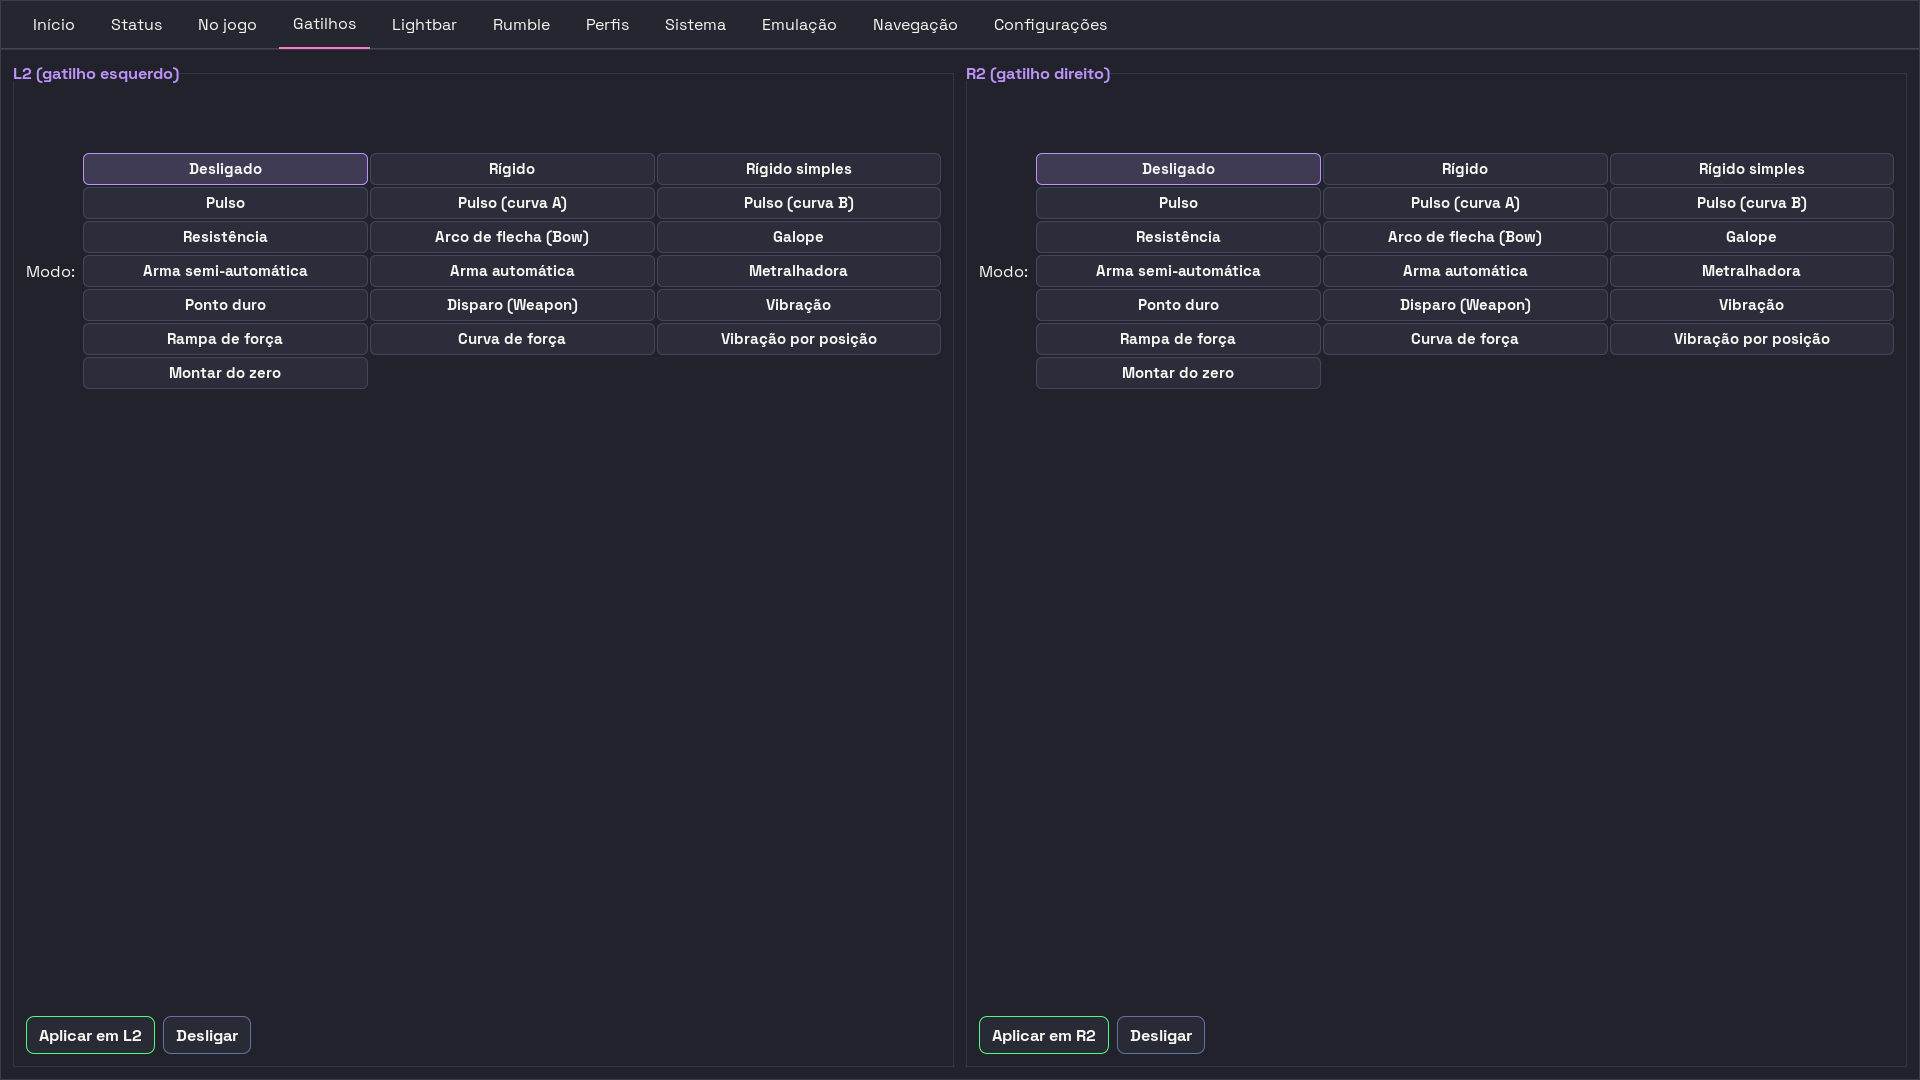
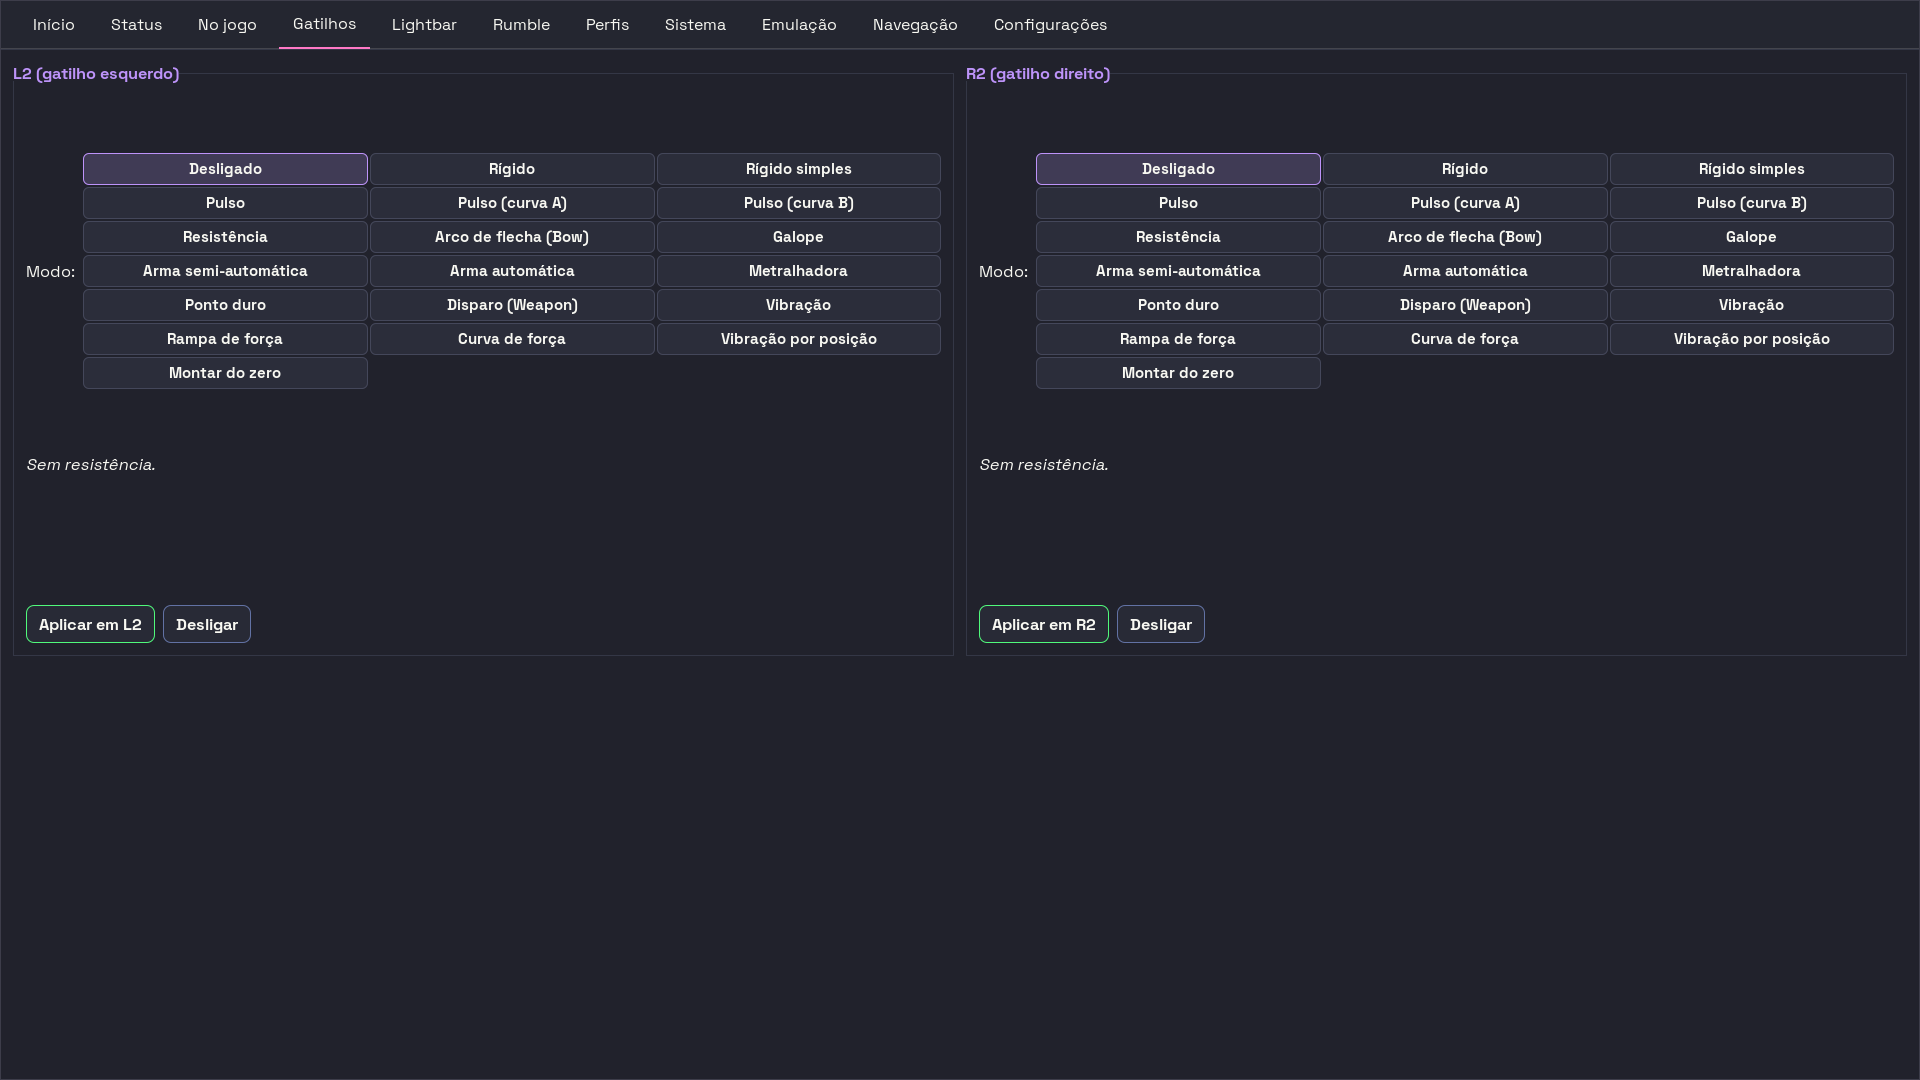
fix(interface): a VAO-01 fecha — e o vazio dos Gatilhos era do INSTRUMENTO
Decisão 1 do `DECISOES.md`, a única sem marca. Ela não respondeu porque a dúvida
era real: o cético tinha contestado que *"o vazio dos Gatilhos não sumiu, mudou
de lado"*, e a foto lhe dava razão — a moldura ia até o pé da página com ~640px
de nada entre a grade de modos e o "Aplicar em L2".

**O cético estava certo sobre o sintoma e errado sobre a causa.** São duas
coisas, e as duas foram medidas:

**1. A moldura esticava mesmo, e a cura tem DUAS metades.** A E9 da LARGURA-01
pôs a fileira de ação no pé com `valign=end` + `vexpand=True`, a pedido literal
dela — e isso moveu o vazio em vez de tirá-lo. O próprio comentário da E9 já
registrava isso como não resolvido.

`vexpand=False` no frame **não bastou**: medido, ainda saía 1016px de 1040. A
razão é que o pai é um Box HORIZONTAL — nele o `expand` do packing distribui
LARGURA, e a altura o filho recebe inteira por preenchimento, sem passar por
`vexpand` nenhum. `valign=start` é a metade que faltava. Com as duas, a moldura
passa a ter a altura do conteúdo, e o `valign=end` da fileira continua valendo:
os botões ficam no pé de uma coluna CURTA, que é o que ela pediu.

**2. E a foto mentia.** O `retratar_abas.py` montava os 19 modos À MÃO — um
`SegmentedSelector(wrap=True)` criado ali e empacotado com
`pack_start(sel, True, True, 0)`. Aquele `expand=True` **não existe no produto**.
Medido: montagem à mão 1016px, método de produção 482px.

A ironia estava escrita no próprio arquivo. O docstring da função dizia, sobre
[…]

diff --git a/tests/unit/test_a_foto_monta_como_o_produto_monta.py b/tests/unit/test_a_foto_monta_como_o_produto_monta.py
@@ -1,0 +1,159 @@
+"""O retrato das abas usa o MÉTODO DE PRODUÇÃO, nunca uma cópia dele.
+
+O DEFEITO, medido em 22/08/2026, e ele custou uma decisão dela.
+
+O `retratar_abas.py` montava os 19 modos da aba Gatilhos À MÃO — um
+`SegmentedSelector(wrap=True)` criado ali mesmo e empacotado com
+`slot.pack_start(sel, True, True, 0)`. O `expand=True` daquele `pack_start`
+**não existe no produto**, e por causa dele a moldura saía esticada até o pé da
+página: 1016px de 1040, com uns 640px de vazio entre a grade e o "Aplicar em L2".
+
+Ela decidiu a fila de interface OLHANDO ESSA FOTO. A dúvida da decisão 1 do
+`DECISOES.md` — *"o vazio dos Gatilhos não sumiu, mudou de lado"* — nasceu de um
+vazio que era do INSTRUMENTO, não do produto. Com o método de produção a mesma
+moldura mede 482px.
+
+E a ironia estava escrita no próprio arquivo: o docstring da função dizia, sobre
+os RÓTULOS, que *"uma lista copiada aqui viraria um segundo dono, e a foto
+passaria a mentir no dia em que um deles mudasse"*. A regra estava certa e foi
+aplicada só à metade — os rótulos vinham da fonte única, o LAYOUT era cópia.
+
+É a família que esta casa mais paga: **o instrumento mente mais que o produto**.
+Três medições falsas num único dia em 07/08, e esta é a quarta.
+
+O QUE ESTE PORTÃO COBRA: toda aba que o retrato monta em código chama o método
+de produção. A régua é a IMPORTAÇÃO do mixin — não o texto do docstring, que é
+justamente o que estava certo enquanto o código estava errado.
+"""
+from __future__ import annotations
+
+import ast
+import inspect
+from pathlib import Path
+
+_RETRATO = (
+    Path(__file__).resolve().parents[2] / "scripts" / "gui-captura" / "retratar_abas.py"
+)
+
+#: Os mixins que montam aba em código, e que o retrato TEM de chamar em vez de
+#: reimplementar. Cada entrada é `(módulo do produto, o que a foto perderia)`.
+#:
+#: A lista cresce quando uma aba nova passa a ser montada em código. Ela NÃO é a
+#: régua sozinha — o teste também cobra que ninguém construa widget de aba à mão
+#: (ver `test_o_retrato_nao_monta_widget_de_aba_a_mao`), que é o que pega a aba
+#: que ainda não está aqui.
+MIXINS_DE_ABA: dict[str, str] = {
+    "TriggersActionsMixin": "os 19 modos de gatilho e a área de parâmetros",
+    "ProfilesActionsMixin": 'o "Aplica a", o "Modo" e a lista do Steam Input',
+    "ConfigActionsMixin": "as cinco seções da aba Configurações",
+}
+
+
+def _arvore() -> ast.Module:
+    return ast.parse(_RETRATO.read_text(encoding="utf-8"))
+
+
+def _nomes_usados() -> set[str]:
+    """Todo nome que o retrato CITA — importado direto ou por atributo.
+
+    As DUAS formas contam, e a segunda não é detalhe: o retrato importa a aba
+    Perfis como `profiles_actions as _pa` e usa `_pa.ProfilesActionsMixin`.
+    A primeira versão desta régua só olhava o import direto e reprovou uma aba
+    que estava CERTA — portão que acusa quem fez a coisa certa ensina a próxima
+    pessoa a desligá-lo, e esta casa já pagou por isso em 13/08.
+    """
+    nomes: set[str] = set()
+    for no in ast.walk(_arvore()):
+        if isinstance(no, ast.ImportFrom):
+            nomes.update(a.asname or a.name for a in no.names)
+        elif isinstance(no, ast.Import):
+            nomes.update((a.asname or a.name).split(".")[0] for a in no.names)
+        elif isinstance(no, ast.Attribute):
+            nomes.add(no.attr)
+    return nomes
+
+
+def test_o_retrato_chama_o_mixin_de_cada_aba_montada_em_codigo() -> None:
+    """Mordida: trocar a chamada de `install_triggers_tab` por uma montagem à mão."""
+    citados = _nomes_usados()
+    faltando = {
+        mixin: perda
+        for mixin, perda in MIXINS_DE_ABA.items()
+        if mixin not in citados
+    }
+    assert not faltando, (
+        "o retrato deixou de usar o método de produção destas abas: "
+        + "; ".join(f"{m} (a foto perde {p})" for m, p in faltando.items())
+        + ". Montar à mão faz a foto mentir sobre o layout, e é olhando a foto "
+        "que ela decide."
+    )
+
+
+def test_o_retrato_nao_monta_widget_de_aba_a_mao() -> None:
+    """A régua que pega a aba que ainda não está em `MIXINS_DE_ABA`.
+
+    Construir um `SegmentedSelector` no retrato é o sintoma: ele é o widget que
+    as abas usam para os seus seletores, e o produto sempre o cria dentro de um
+    mixin. Uma construção aqui é uma segunda montagem por definição.
+
+    **A BANCADA DE MENTIRA CONTINUA PERMITIDA, e a diferença é o que separa
+    este portão de um estorvo:** injetar DADO (controles de mentira, uma mesa de
+    rádio inventada, jogos que não existem) é o trabalho deste script e é o que
+    protege a privacidade dela. O que ele não pode é injetar LAYOUT.
+
+    Mordida: acrescentar um `SegmentedSelector(...)` a qualquer função do
+    retrato.
+    """
+    construcoes: list[str] = []
+    for no in ast.walk(_arvore()):
+        if not isinstance(no, ast.Call):
+            continue
+        alvo = no.func
+        nome = (
+            alvo.id
+            if isinstance(alvo, ast.Name)
+            else alvo.attr
+            if isinstance(alvo, ast.Attribute)
+            else None
+        )
+        if nome == "SegmentedSelector":
+            construcoes.append(f"linha {no.lineno}")
+
+    assert not construcoes, (
+        "o retrato voltou a construir widget de aba à mão "
+        f"({', '.join(construcoes)}). O layout tem de vir do mixin de produção; "
+        "só DADO pode ser injetado aqui."
+    )
+
+
+def test_a_regua_deste_portao_nao_confere_a_si_mesma() -> None:
+    """A trava contra o defeito que este arquivo existe para pegar.
+
+    Um portão que lê o próprio docstring do alvo, ou que itera a mesma lista que
+    deveria conferir, passa com a cura arrancada. Aconteceu TRÊS vezes nesta casa
+    em 22/08/2026.
+
+    Aqui a régua é a árvore de sintaxe do retrato, e a lista `MIXINS_DE_ABA` é
+    conferida contra o PRODUTO: cada mixin nomeado tem de existir de verdade em
+    `app/actions/`, senão a lista poderia ser preenchida com nomes inventados e
+    o primeiro teste passaria por acidente.
+    """
+    from hefesto_dualsense4unix.app.actions import (
+        profiles_actions,
+        triggers_actions,
+    )
+    from hefesto_dualsense4unix.app.actions import config as config_pkg
+
+    vivos = set()
+    for modulo in (triggers_actions, profiles_actions, config_pkg):
+        vivos.update(
+            nome
+            for nome, obj in vars(modulo).items()
+            if inspect.isclass(obj) and nome.endswith("Mixin")
+        )
+
+    fantasmas = set(MIXINS_DE_ABA) - vivos
+    assert not fantasmas, (
+        f"a lista deste portão nomeia mixin que não existe no produto: "
+        f"{sorted(fantasmas)}. Régua que aponta para o vazio aprova qualquer coisa."
+    )

diff --git a/scripts/gui-captura/retratar_abas.py b/scripts/gui-captura/retratar_abas.py
@@ -1149,28 +1149,47 @@ def _injetar_modos_de_gatilho(builder) -> str:  # type: ignore[no-untyped-def]
     produto usa. Uma lista copiada aqui viraria um segundo dono dos rótulos, e
     a foto passaria a mentir no dia em que um deles mudasse.
     """
+    # O MÉTODO DE PRODUÇÃO, e não uma cópia dele. SUBSTITUÍDO em 22/08/2026,
+    # e a razão é medida: esta função montava os modos À MÃO
+    # (`SegmentedSelector(wrap=True)` mais `slot.pack_start(sel, True, True, 0)`)
+    # em vez de chamar `install_triggers_tab`. Era um SEGUNDO DONO da montagem —
+    # exatamente o que o docstring acima diz que não se deve fazer com os
+    # rótulos, cometido com o LAYOUT.
+    #
+    # O preço, medido no mesmo dia: o `expand=True` daquele `pack_start` não
+    # existe no produto, e por causa dele a foto saía com a moldura esticada até
+    # o pé da página. Ela decidiu a fila de interface OLHANDO ESTA FOTO — a
+    # dúvida da decisão 1 do `DECISOES.md` ("o vazio dos Gatilhos não sumiu,
+    # mudou de lado") nasceu de um vazio que era do INSTRUMENTO. Com o método de
+    # produção a moldura mede 482px de 1040; com a montagem à mão, 1016.
+    #
+    # Mesmo desenho da aba Perfis e do card do Status logo abaixo: host mínimo
+    # com `_get`, nada de IPC, nada de tique.
     try:
-        from hefesto_dualsense4unix.app.actions.trigger_specs import PRESETS
-        from hefesto_dualsense4unix.app.widgets import SegmentedSelector
+        from hefesto_dualsense4unix.app.actions.triggers_actions import (
+            TriggersActionsMixin,
+        )
     except Exception as exc:
         return f"modos de gatilho não injetados ({exc})"
 
-    itens = [(spec.name, spec.label) for spec in PRESETS]
-    postos = 0
-    for lado in ("left", "right"):
-        slot = builder.get_object(f"trigger_{lado}_mode_slot")
-        if slot is None:
-            continue
-        sel = SegmentedSelector(wrap=True)
-        sel.set_items(itens)
-        # O primeiro é o "Desligado", e é o que a aba mostra ao abrir.
-        sel.set_active_id(itens[0][0])
-        slot.pack_start(sel, True, True, 0)
-        sel.show_all()
-        postos += 1
-    if not postos:
-        return "modos de gatilho não injetados (slots ausentes no glade)"
-    return f"{len(itens)} modos de gatilho injetados nos {postos} lados"
+    class _Host(TriggersActionsMixin):  # type: ignore[misc, valid-type]
+        def __init__(self) -> None:
+            self.builder = builder
+
+        def _get(self, nome: str):  # type: ignore[no-untyped-def]
+            return self.builder.get_object(nome)
+
+        def _status_toast(self, _contexto: str, _msg: str) -> None:
+            return None
+
+    try:
+        _Host().install_triggers_tab()
+    except Exception as exc:
+        return f"modos de gatilho não injetados ({exc})"
+
+    from hefesto_dualsense4unix.app.actions.trigger_specs import PRESETS
+
+    return f"{len(PRESETS)} modos de gatilho injetados pelo método de produção"
 
 
 def _injetar_card(builder) -> str:  # type: ignore[no-untyped-def]
